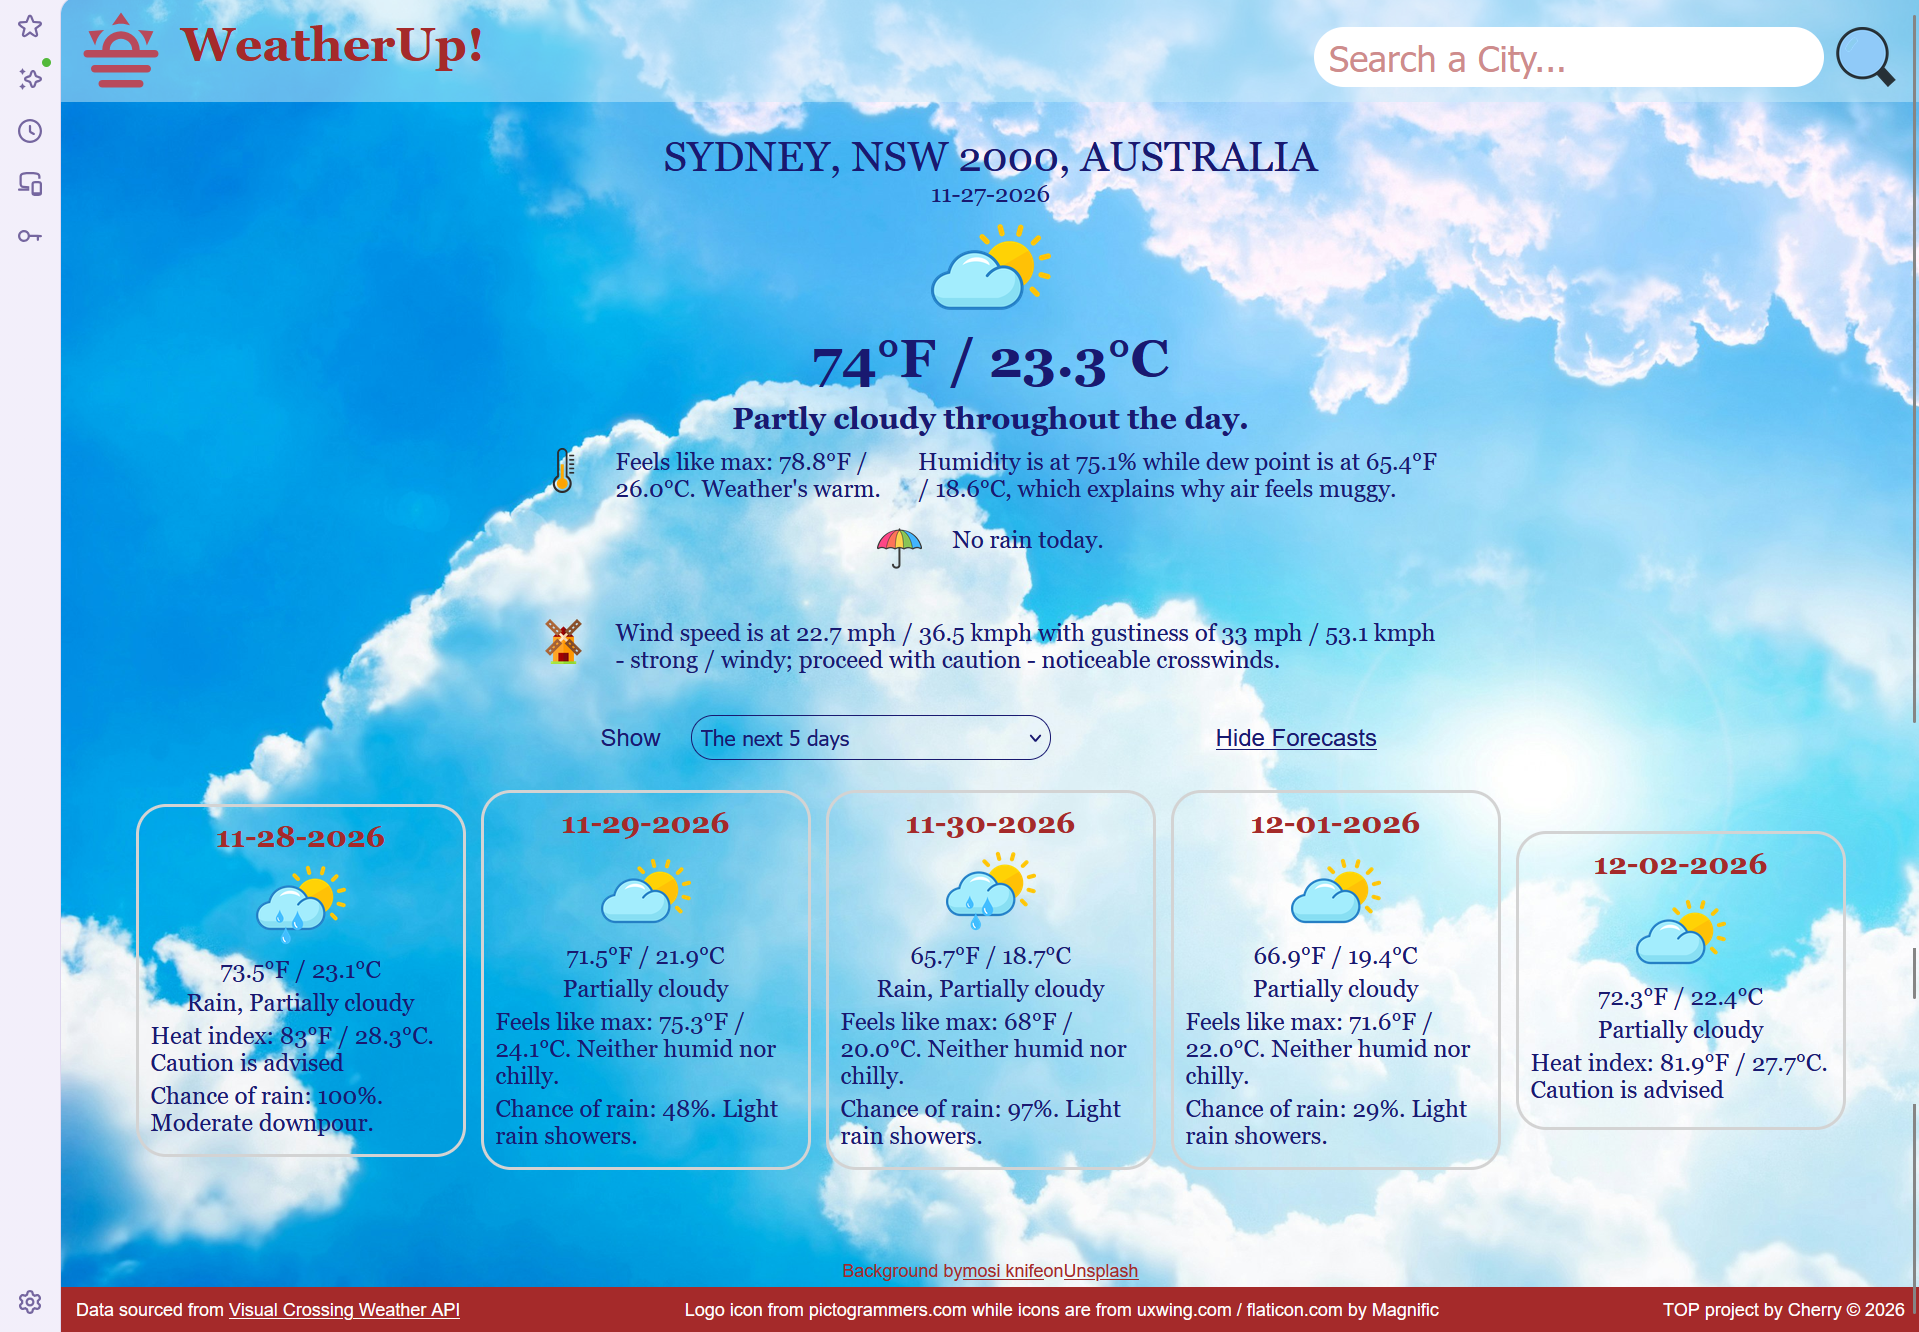
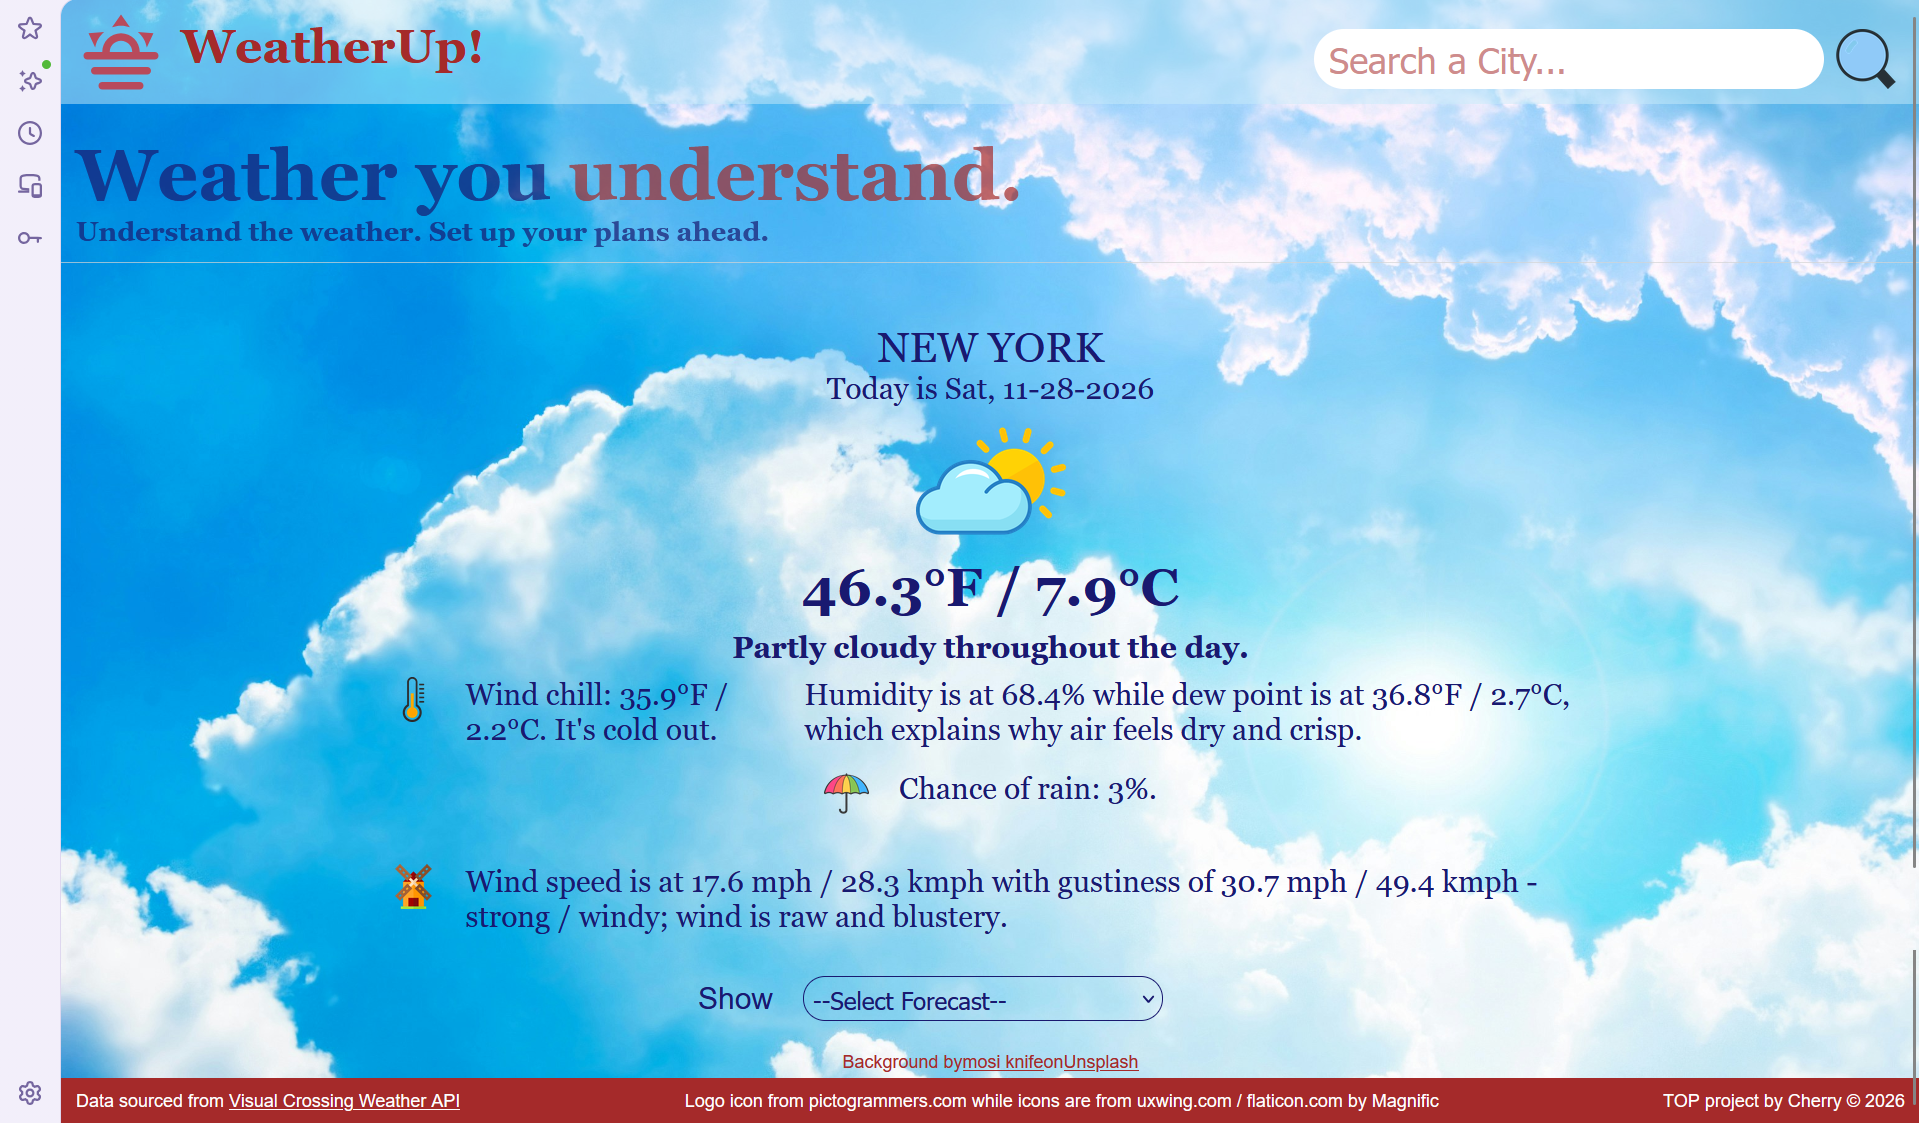
Make changes to layout, fix a bug on snow logic.

diff --git a/src/index.js b/src/index.js
@@ -59,7 +59,7 @@ formSearch.addEventListener('submit', async function(event) {
 });
 
 const getWeather = async (city) => {
-    const url = `https://weather.visualcrossing.com/VisualCrossingWebServices/rest/services/timeline/${city}?unitGroup=us&include=day&elements=datetime,temp,tempmax,tempmin,humidity,feelslike,feelslikemax,feelslikemin,windspeed,windgust,precipprob,precip,precipcover,conditions,description,dew,preciptype,snow,snowdepth`;
+    const url = `https://weather.visualcrossing.com/VisualCrossingWebServices/rest/services/timeline/${city}/today?unitGroup=us&include=day&elements=datetime,temp,tempmax,tempmin,humidity,feelslike,feelslikemax,feelslikemin,windspeed,windgust,precipprob,precip,precipcover,conditions,description,dew,preciptype,snow,snowdepth`;
     const response = await fetch(url);
 
     if (!response.ok) {
@@ -110,8 +110,10 @@ function displayWeatherToday(enteredCity, dateToday, tempInF, description, humid
 
     const dateNow = document.createElement("p");
     dateNow.className = "date-now";
-    dateNow.textContent = formatDate(dateToday);
-
+    const date = formatDate(dateToday);
+    const day = dayOfWeek(date);
+    dateNow.textContent = `Today is ${day}, ${date}`; 
+    
     const weatherIconContainer = document.createElement("div");
     weatherIconContainer.className = "weather-icon-container";
 
@@ -168,7 +170,7 @@ async function displayWeatherInfo(enteredCity) {
     
     displayWeatherToday(weatherToday.city, dateToday, weatherTodayTemp, description, humidity, heatIndex, tempMax, windchill, tempMin, dew, preciptype, chanceOfRain, rain, hoursOfRain, snow, snowdepth, windspeed, windgust);
     
-    /*console.clear();*/
+    console.clear();
     console.log(weatherToday);
 }
 
@@ -177,6 +179,15 @@ function formatDate(date) {
     const formattedDate = `${month}-${day}-${year}`;
 
     return formattedDate;
+}
+
+function dayOfWeek(date) {
+    const days = ["Sun", "Mon", "Tue", "Wed", "Thu", "Fri", "Sat"];
+
+    const dateToday = new Date(date);
+    const dayIndex = dateToday.getDay();
+
+    return days[dayIndex];
 }
 
 function convertFahrenheit(temp) {
@@ -294,10 +305,15 @@ function completeRainDescription(preciptype, precipprob, precip, precipcover) {
         fullRainDescription = rainDescription('Chance of rain/snow', precipprob, precip, precipcover);
     }
 
-    if (precipType.length > 0 && (precipType.includes('rain') && precipType.includes('freezingrain')) && (!precipType.includes('snow'))) {
-        const rainCondition = rainDetails;
+    if (precipType.length > 0 && precipType.includes('freezingrain') && precipType.includes('snow')) {
+        const rainCondition = rainDescription('Chance of rain/snow', precipprob, precip, precipcover);
         const hasIceHazard = "⚠ Caution: Sleet.";
         fullRainDescription = `${rainCondition} ${hasIceHazard}`;
+    }
+
+    if (precipType.length > 0 && (precipType.includes('rain') && precipType.includes('freezingrain')) && (!precipType.includes('snow'))) {
+        const hasIceHazard = "⚠ Caution: Sleet.";
+        fullRainDescription = `${rainDetails} ${hasIceHazard}`;
     }
 
     return fullRainDescription;
@@ -305,7 +321,7 @@ function completeRainDescription(preciptype, precipprob, precip, precipcover) {
 
 function rainDescription(chanceOfText, precipprob, precip, precipcover) {
     if (precip < 0.25) return `${chanceOfText}: ${precipprob}%. Light rain showers; ${moreRainInfo(precipcover)}.`;
-    if (precip < 0.80) return `${chanceOfText}: ${precipprob}%. Moderate downpour; ${moreRainInfo(precipcover)}; you may need an umbrella.`;
+    if (precip < 0.80) return `${chanceOfText}: ${precipprob}%. Moderate downpour; ${moreRainInfo(precipcover)}.`;
     if (precip < 2.00) return `${chanceOfText}: ${precipprob}%. Strong downpour; heavy puddles and low visibility.`;
     if (precip >= 2.00) return `${chanceOfText}: ${precipprob}%. Intense storm-level rain with flooding risk.`;
 }
@@ -343,7 +359,7 @@ function addtlRainDetails(preciptype, precipprob, precip, precipcover) {
 function snowDescription(preciptype, precipprob, snow, snowdepth) {
     const precipType = preciptype || [];
     let fullSnowCondition = "";
-    let snowCondition = `Chance of snow: ${precipprob}%. ${moreSnowInfo(snow)} Snow accumulation on ground: ${snowdepth} inches.`;
+    let snowCondition = `Chance of snow: ${precipprob}%. ${moreSnowInfo(snow)} Depth of snow on ground: ${snowdepth} inches.`;
     if (precipType.length === 1 && precipType.includes('snow')) {
         if (precipprob > 0) {
             if (snow > 0 || snowdepth > 0) {
@@ -352,9 +368,9 @@ function snowDescription(preciptype, precipprob, snow, snowdepth) {
         }
     }
 
-    if (precipType.length > 0 && (precipType.includes('rain') && precipType.includes('snow'))) {
+    if (precipType.length > 0 && (precipType.includes('rain') || precipType.includes('freezingrain')) && precipType.includes('snow')) {
         if (snow > 0 || snowdepth > 0) {
-            fullSnowCondition = `${moreSnowInfo(snow)} Snow accumulation on ground: ${snowdepth} inches.`;
+            fullSnowCondition = `${moreSnowInfo(snow)} Depth of snow on ground: ${snowdepth} inches.`;
         }
     }
 
@@ -366,16 +382,16 @@ function snowDescription(preciptype, precipprob, snow, snowdepth) {
     if (snow < 0.1 && snowdepth >= 1.0) {
         fullSnowCondition = `Depth of snow on ground: ${snowdepth} inches due to lingering snowpack.`;
     }
-    console.log(fullSnowCondition);
+    
     return fullSnowCondition;
 }
 
 function moreSnowInfo(snow) {
-    if (snow >= 0.1 && snow < 0.5) return `Flurries / trace snow, light dusting on grass and rooftops.`;
-    if (snow < 2.0) return `Light snow.`;
-    if (snow < 4.0) return `Moderate snow, proceed with caution.`;
-    if (snow < 8.0) return `⚠ Alarming / Heavy.`
-    if (snow >= 8.0) return `⚠ Severe / Major storm.`
+    if (snow >= 0.1 && snow < 0.5) return `Snowfall: Flurries / trace snow, light dusting on grass and rooftops.`;
+    if (snow < 2.0) return `Snowfall: Light snow.`;
+    if (snow < 4.0) return `Snowfall: Moderate snow, proceed with caution.`;
+    if (snow < 8.0) return `Snowfall: ⚠ Alarming / Heavy.`
+    if (snow >= 8.0) return `Snowfall: ⚠ Severe / Major storm.`
 }
 
 function showSnowDetails(preciptype, precipprob, snow, snowdepth) {
@@ -479,7 +495,7 @@ showForecast.addEventListener('change', async function(event) {
     hideForecast.classList.remove('hidden');
 
     let selectedValue = showForecast.value;
-    
+
     if (selectedValue !== "") {
         if (selectedValue === "tomorrow") {
             await displayForecast("next1days", 1);
@@ -499,6 +515,10 @@ showForecast.addEventListener('change', async function(event) {
 
         if (selectedValue === "next10days") {
             await displayForecast(selectedValue, 10);
+        }
+
+        if (selectedValue === "next12days") {
+            await displayForecast(selectedValue, 12);
         }
     }
 });
@@ -557,7 +577,9 @@ async function displayForecast(selectedValue, numberOfDays) {
         const forecastDateText = document.createElement("p");
         forecastDateText.className = "forecast-date";
         const forecastDate = weather.forecast[i].datetime;
-        forecastDateText.textContent = formatDate(forecastDate);
+        const date = formatDate(forecastDate);
+        const day = dayOfWeek(date);
+        forecastDateText.textContent = `${day}, ${date}`;
 
         const weatherIconContainer = document.createElement("div");
         weatherIconContainer.className = "forecast-icon-container";
@@ -602,11 +624,11 @@ async function displayForecast(selectedValue, numberOfDays) {
         if (kindOfPrecip.length === 1 && kindOfPrecip.includes('snow')) {
             if (chanceOfRain > 0) {
                 chanceOfRainText.textContent = `Chance of snow: ${chanceOfRain}%.`;
-                snowText.textContent = `Snow: ${snowDescription}`;
+                snowText.textContent = `${snowDescription}`;
             }
         } else if (kindOfPrecip.includes('snow') || snow > 0) {
             chanceOfRainText.textContent = rainSummary;
-            snowText.textContent = `Snow: ${snowDescription}`;
+            snowText.textContent = `${snowDescription}`;
         } else {
             chanceOfRainText.textContent = rainSummary;
         }
@@ -669,7 +691,7 @@ function displayDailyForecastRain(preciptype, precipprob, precip, precipcover) {
             }
         }
     }
-    console.log(rainFullDesc);
+    
     return rainSummary;
 }
 

diff --git a/src/styles.css b/src/styles.css
@@ -4,7 +4,7 @@
 }
 
 html {
-    font-size: clamp(75%, 3vw, 100%); 
+    font-size: clamp(80%, 3vw, 100%); 
 }
 
 img,
@@ -119,6 +119,30 @@ button {
     box-sizing: border-box;
 }
 
+.app-description {
+    width: 100%;
+    min-height: 80px;
+    overflow-x: hidden;
+    padding-bottom: 10px;
+    opacity: .7;
+    border-bottom: 1px solid lightgray;
+}
+
+h2 {
+    font-size: 3rem;
+    padding-top: 20px;
+    padding-left: 10px;
+}
+
+h2 span {
+    color: brown;
+}
+
+h3 {
+    font-size: 1.125rem;
+    padding-left: 10px;
+}
+
 .weather-info {
     display: flex;
     flex-direction: column;
@@ -128,7 +152,7 @@ button {
     align-items: center;
     width: 100%;
     min-height: 100%;
-    padding-top: 20px;
+    padding-top: 40px;
 }
 
 .hidden {
@@ -146,9 +170,12 @@ button {
     font-size: 2.125rem;
 }
 
-.default-icon,
+.default-icon {
+    width: 160px;
+}
+
 .weather-icon-container {
-    width: 80px;
+    width: 100px;
 }
 
 .weather-info-today {
@@ -156,7 +183,7 @@ button {
     flex-direction: column;
     justify-content: center;
     align-items: center;
-    max-width: 600px;
+    max-width: 800px;
     width: 100%;
 }
 
@@ -164,6 +191,10 @@ button {
     font-size: 1.75rem;
     text-align: center;
     white-space: normal;
+}
+
+.date-now {
+    font-size: 1.25rem;
 }
 
 .weather-icon-container img {
@@ -198,9 +229,9 @@ button {
 .rain-icon-container,
 .snow-icon-container,
 .wind-icon-container {
-    max-width: 1.875rem;
+    max-width: 30px;
     width: 100%;
-    max-height: 1.875rem;
+    max-height: 30px;
     height: auto;
     display: flex;
     justify-content: flex-end;
@@ -224,6 +255,7 @@ button {
 .snow-details-description,
 .wind-description {
     text-align: left;
+    font-size: 1.25rem;
 }
 
 .select-forecasts-container:not(.hidden) {
@@ -247,6 +279,7 @@ button {
 .select-forecasts label {
     display: flex;
     align-items: center;
+    font-size: 1.25rem;
 }
 
 .select-forecasts select {
@@ -260,7 +293,7 @@ button {
     box-sizing: border-box;
     padding: 6px;
     color: midnightblue;
-    font-size: .875rem;
+    font-size: 1rem;
 }
 
 .hide-forecast:not(.hidden) {   
@@ -294,13 +327,13 @@ button {
     padding: 8px;
     background-color: lightgray;
     background-color: transparent;
-    /*font-family: Arial, Helvetica, sans-serif;*/
     font-size: 1rem;
     gap: 4px;
-    max-width: 200px;
+    max-width: 300px;
     width: 100%;
-    max-height: 400px;
+    max-height: 600px;
     height: auto;
+    font-size: 1.25rem;
 }
 
 .forecast-icon-container {
@@ -308,7 +341,6 @@ button {
 }
 
 .forecast-date {
-    font-size: 1.25rem;
     color: brown;
     font-weight: bold;
 }
@@ -324,6 +356,7 @@ button {
     margin-top: auto;
     gap: 4px;
     width: 100%;
+    padding-top: 20px;
 }
 
 .attribution {

diff --git a/src/template.html b/src/template.html
@@ -26,6 +26,10 @@
                 </button>
             </form>
         </div>
+        <div class="app-description">
+            <h2>Weather you <span>understand.</span></h2>
+            <h3>Understand the weather. Set up your plans ahead.</h3>
+        </div>
         <div class="weather-info">
             <div class="default-items">
                 <div class="placeholder">Search a City...</div>
@@ -44,6 +48,7 @@
                         <option value="next5days">The next 5 days</option>
                         <option value="next7days">The next 7 days</option>
                         <option value="next10days">The next 10 days</option>
+                        <option value="next12days">The next 12 days</option>
                     </select>
                 </div>
                 <div class="hide-forecast hidden">Hide Forecasts</div>      

diff --git a/README.md b/README.md
@@ -7,12 +7,12 @@ Using HTML, CSS (Flexbox for layout) and JavaScript webpack.
 Features:
 
 1. Weather data for all cities around the world. User can search for any city (case-insensitive typing). For a more accurate result, user may type both city and country.
-2. API data are sourced from <a href="https://www.visualcrossing.com/weather-api/">Visual Crossing API</a>.
-3. User can select the number of days forecast (up to 10 days) from a select box.
+2. API data are sourced from <a href="https://www.visualcrossing.com/weather-api/">Visual Crossing Weather API</a>.
+3. User can select the number of days forecast (up to 12 days) from a select box.
 3. Parameters fetched include forecasts for elements not limited to temperature, summary and description of conditions, feels like temperatures, humidity, dew point temperature, rain probability, rainfall measurement, rain cover, wind conditions.
 4. User first sees the current day's forecast with all the relevant numbers and descriptions.
 5. I'd have stopped to show ONLY numbers, but I wanted to add some laymen descriptions. For example, for the heat index, while the numbers are sourced from the API, the category range descriptions are loosely sourced from PAGASA (through google).
-6. Same for rain descriptions, wind descriptions, and snow conditions. I use the numbers from the API and searched through google for loose category range descriptions. All these of course can be read in the code.
+6. Same for rain descriptions, wind descriptions, and snow conditions. I use the numbers from the API and searched through google for category range descriptions. All these of course can be read in the code.
 
 Screenshots:
 
